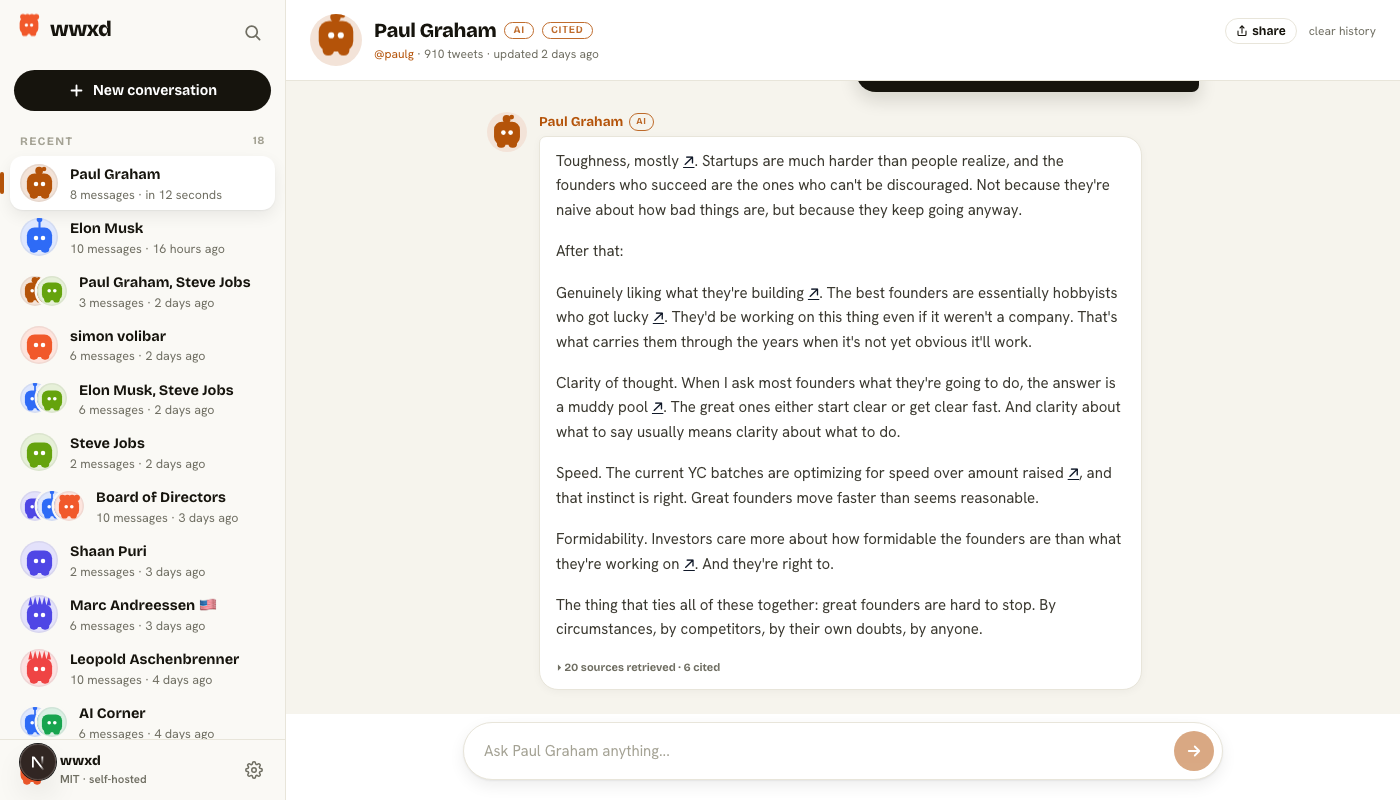
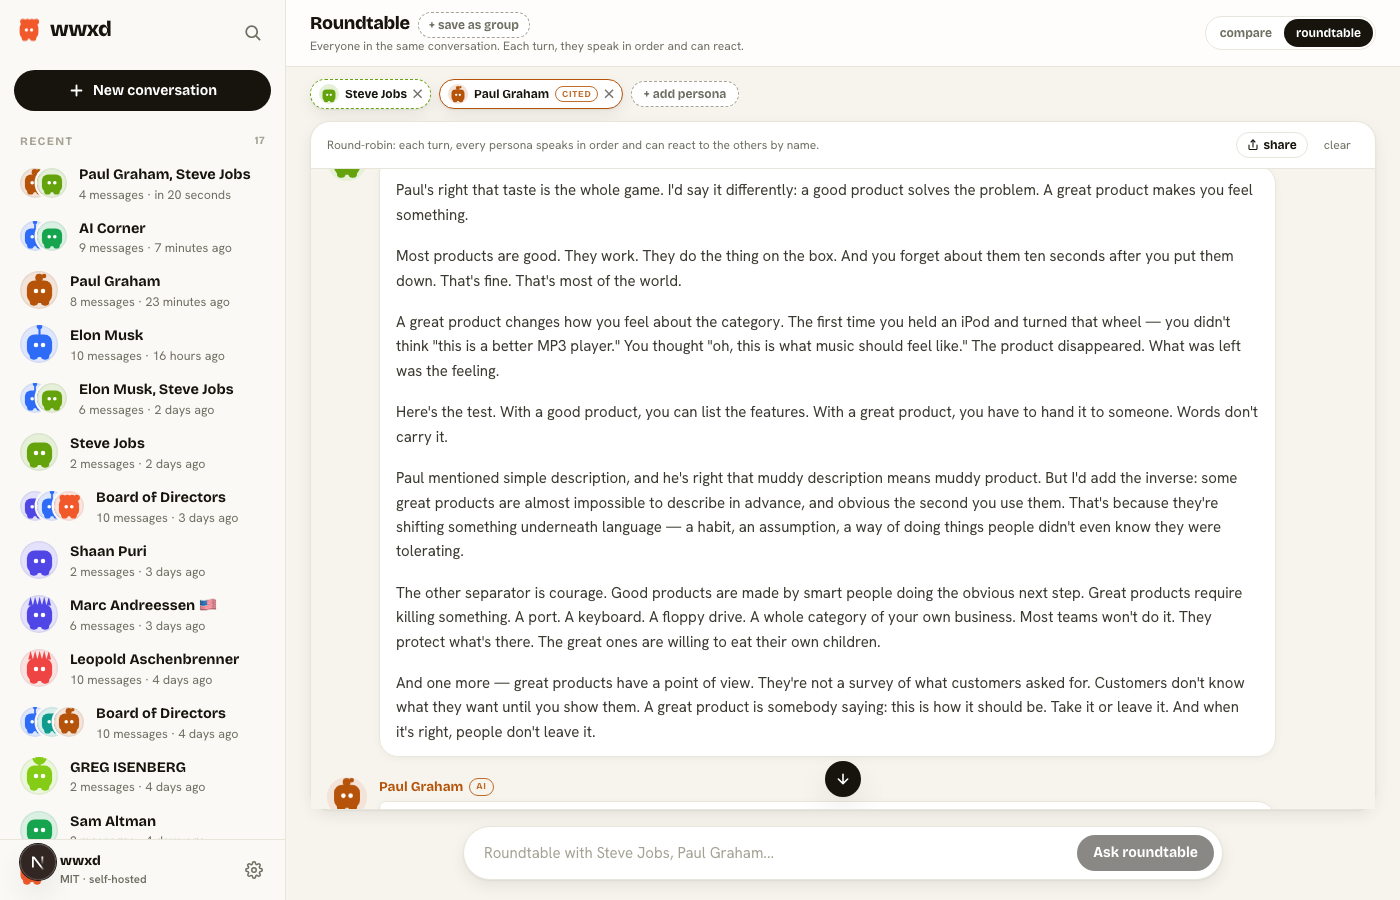
docs(readme): party-host rewrite
- Swap "Get going" and "What you get" in the nav so the action
  word leads.
- Replace the solo-chat screenshot with the mixed-mode roundtable
  (Steve Jobs prior-only + Paul Graham grounded), which shows the
  killer feature AND both modes in one image.
- Trim and warm the voice. "wwxd is provider-agnostic. Pick a
  chat model, pick an embedding model, edit .env.local." becomes
  "Edit .env.local and point wwxd at whoever you trust."
- Three commands open the page now. "Three commands and you're
  in" instead of a bare code block.
- Collapse the deep technical content into <details> blocks:
  CLI ingestion, pipeline diagram, tests + evals. Stays in one
  file but reads short on first scroll.
- Project home moves into the Contributing footer instead of a
  standalone centered orphan line.

Goal: README reads like a friend showing you in, not like a spec.
Essential up top, depth one click away.

diff --git a/README.md b/README.md
@@ -11,8 +11,8 @@
 </p>
 
 <p align="center">
-  <a href="#what-you-get">What you get</a> ·
   <a href="#get-going">Get going</a> ·
+  <a href="#what-you-get">What you get</a> ·
   <a href="#bring-your-own-model">Providers</a> ·
   <a href="#how-the-roundtable-works">Roundtable</a> ·
   <a href="#what-it-costs">Costs</a> ·
@@ -20,6 +20,8 @@
 </p>
 
 ## Get going
+
+Three commands and you're in.
 
 ```bash
 git clone https://github.com/juanfiguera/wwxd.git
@@ -30,79 +32,90 @@ pnpm dev                         # → http://localhost:3000
 ```
 
 > [!IMPORTANT]
-> **wwxd generates AI _impressions_ of real people.** The personas are not the people they reference, are not endorsed by them, and will sometimes misrepresent their views. Don't quote outputs. Don't take advice from them. Treat the whole thing as well-researched fan fiction.
+> **wwxd generates AI _impressions_ of real people.** The personas aren't the people they reference, aren't endorsed by them, and will sometimes misrepresent their views. Don't quote outputs. Don't take advice from them. Treat the whole thing as well-researched fan fiction.
 
 ## What you get
 
 Steve Jobs on AI agents. Paul Graham on hiring your first engineer. Marcus Aurelius on the email you can't stop drafting. The same machine answers all three, and it'll cite its sources when it has them.
 
 <p align="center">
-  <img src=".github/assets/chat-preview.png" alt="wwxd chat with Paul Graham — citations link back to specific tweets." width="100%" />
+  <img src=".github/assets/chat-preview.png" alt="Roundtable with Steve Jobs (no sources, dashed border) and Paul Graham (CITED, sources). Each replies to the prompt in their own voice and reacts to the other by name." width="100%" />
 </p>
 
 **Two modes for any persona:**
 
-- **Grounded** — give wwxd source material (tweets via Apify, essays from URLs/RSS/sitemap, YouTube transcripts). It builds an embedding index and every reply links back to specific chunks with `↗`. High-fidelity. You're hearing a synthesis of what they actually wrote.
-- **Prior-only** — just type a name. wwxd asks the model "who is this?", catches typos (`"Elon Mosk"` → `"Elon Musk — Tesla and SpaceX CEO"`), stores a stub, and chats from the model's training knowledge. No corpus, no citations. Fastest way to bring Steve Jobs, Marcus Aurelius, or Marie Kondo to your table.
+- **Grounded** — feed wwxd their writing (tweets via Apify, essays from URLs/RSS/sitemap, YouTube transcripts) and replies link back to specific chunks with `↗`. You're hearing a synthesis of what they actually wrote.
+- **Prior-only** — just type a name. wwxd figures out who you mean (`"Elon Mosk"` → `"Elon Musk — Tesla and SpaceX CEO"`), stores a stub, and chats from the model's training knowledge. No corpus needed. Perfect for historical figures and anyone you can't ingest.
 
-Both share the chat surface. Grounded personas wear a `CITED` pill. Prior-only personas read "from memory" instead of a tweet count.
-
-Project home: **[wwxd.chat](https://wwxd.chat)**.
+Both share the chat surface. Grounded personas wear a `CITED` pill. Prior-only personas read "from memory".
 
 ## Make your first persona
 
-After [`pnpm dev`](#get-going), open [http://localhost:3000](http://localhost:3000). You'll see an empty rail and an "Add a persona" card with two tabs.
+After `pnpm dev`, open [http://localhost:3000](http://localhost:3000). Empty rail, "Add a persona" card with two tabs:
 
-- **X handle.** Paste a handle. wwxd pulls tweets, optionally essays + YouTube, embeds the lot. About a minute for the latest 850 tweets. Needs `APIFY_TOKEN` + an embedding provider.
-- **Name anyone.** Type a name. wwxd disambiguates it and creates the persona instantly. No tokens beyond your LLM provider.
+- **X handle** — paste a handle. About a minute for the latest 850 tweets. Needs `APIFY_TOKEN` + an embedding provider.
+- **Name anyone** — type a name. Instant. No tokens beyond your LLM provider.
 
-Make a persona, click their card, ask them something. That's the whole loop.
+Make one, click their card, ask them something. That's the whole loop.
 
 ## Three ways to talk to them
 
-| Surface | URL | Vibe |
+| | URL | What it is |
 | --- | --- | --- |
-| Solo | `/<slug>` | One on one. Replies cite back to specific source chunks. |
-| Compare | `/compare?personas=a,b,c` | Same prompt, parallel columns. See how each one differs. |
-| Roundtable | `/compare?personas=a,b,c&mode=roundtable` | They take turns and react to each other by name. A gate lets a persona pass when they have nothing to add. |
+| **Solo** | `/<slug>` | One on one. |
+| **Compare** | `/compare?personas=a,b,c` | Same prompt, parallel columns. See where they differ. |
+| **Roundtable** | `/compare?personas=a,b,c&mode=roundtable` | They take turns and react to each other by name. A gate lets a persona pass when they have nothing to add. |
 
-Save a lineup as a **Group** ("Board of Directors", "The Stoa") and one-click load it from the rail. **Share** a conversation as Markdown, plain text, or a versioned `.wwxd.json` snapshot.
+Save a lineup as a **Group** ("Board of Directors", "The Stoa") and one-click it from the rail. **Share** a conversation as Markdown, plain text, or a versioned `.wwxd.json` snapshot.
 
 ## Bring your own model
 
-wwxd is provider-agnostic. Pick a chat model, pick an embedding model, edit `.env.local`. Defaults are Anthropic Claude Opus 4.7 + OpenAI `text-embedding-3-small` because they're what shipped working out of the box. None of it is hard-wired.
+Edit `.env.local` and point wwxd at whoever you trust. Anthropic, OpenAI, Ollama running locally, anything OpenAI-compatible (OpenRouter, vLLM, LMStudio).
 
 ```bash
-LLM_PROVIDER=anthropic                # anthropic | openai | openai-compatible
-                                      # aliases: ollama | openrouter | vllm | lmstudio
+LLM_PROVIDER=anthropic              # anthropic | openai | openai-compatible
 ANTHROPIC_API_KEY=sk-ant-...
 
-# Running Ollama locally? Two lines and you're done:
+# Running Ollama? Two lines:
 # LLM_PROVIDER=openai-compatible
 # LLM_BASE_URL=http://localhost:11434/v1
 # LLM_API_KEY=ollama
 
-# Embeddings — optional, but recommended for grounded mode
+# Embeddings power citations in grounded mode (optional, falls back to BM25)
 EMBEDDING_PROVIDER=openai
 OPENAI_API_KEY=sk-...
-
-# Apify is only for the grounded "X handle" path. Skip if you only
-# use prior-only personas.
-APIFY_TOKEN=apify_api_...
 ```
 
-Where to get keys:
+Full env reference: [`.env.example`](./.env.example).
 
-- [Anthropic](https://console.anthropic.com/settings/keys)
-- [OpenAI](https://platform.openai.com/api-keys)
-- [Apify](https://console.apify.com/account/integrations)
-- [Ollama](https://ollama.com) — local, free, no key
+Get keys: [Anthropic](https://console.anthropic.com/settings/keys) · [OpenAI](https://platform.openai.com/api-keys) · [Apify](https://console.apify.com/account/integrations) · [Ollama](https://ollama.com) (free, local).
 
-Full env reference in [`.env.example`](./.env.example).
+## How the roundtable works
 
-## Adding a grounded persona from the CLI
+Each turn, wwxd loops the personas in order:
 
-The UI handles this from the X-handle tab. If you want to script it instead (batch imports, deep historical pulls, X archive JSON):
+1. **Gate** — a cheap call (your `GATE_MODEL`) asks "given the conversation so far, do you actually have something to add?" YES / NO with a reason. First speaker skips this.
+2. **Speak** — if YES, retrieve their chunks (grounded) or go from memory (prior-only) and stream. The prompt includes every prior speaker so they can agree, push back, or build on each other by name.
+3. **Pass** — if NO, surface a `(passed)` chip with the reason. No charge for a quiet turn.
+
+Code: `lib/gate.ts` and `app/api/roundtable/route.ts`.
+
+## What it costs
+
+Depends on which providers you pick. Ballpark:
+
+- **Tweet ingestion (Apify)** — $0.25 to $0.40 per 1k tweets. Latest pull is a few dollars; deep pulls of a 10-year account are $10 to $30. Skip if you only use prior-only personas.
+- **Embeddings** — about $0.02 per 1M tokens on OpenAI's small embedding model. A 5k-tweet corpus is around $0.01. Free if you run them locally.
+- **Chat (hosted)** — the persona prompt is cached, so each turn mostly pays for retrieval + response. Cents per turn on a frontier model, fractions of a cent on a mid-tier one. A 4-persona roundtable turn is roughly 4× a solo turn.
+- **Chat (local)** — Ollama, vLLM, LMStudio: free. Quality scales with the model you run.
+- **Prior-only personas** — zero ingestion cost. Pay only per turn.
+
+## Going deeper
+
+<details>
+<summary><strong>Add a persona from the CLI</strong></summary>
+
+For batch imports or X archive JSONs:
 
 ```bash
 # Tweets — latest ~850 in X's search window
@@ -125,16 +138,10 @@ pnpm embed-tweets paulg
 ```
 
 `--file` on `fetch-tweets` accepts an X archive JSON if you want to skip Apify entirely.
+</details>
 
-## Tests + evals
-
-```bash
-pnpm test                       # 473 unit tests
-pnpm eval-persona paulg         # voice match score via LLM judge
-pnpm eval-discriminate paulg    # blind A/B: can a judge tell wwxd apart from the real thing?
-```
-
-## What's actually happening
+<details>
+<summary><strong>What's actually happening inside</strong></summary>
 
 ```
 scripts/fetch-tweets.ts     →  data/<slug>.json                  corpus
@@ -159,45 +166,38 @@ app/api/chat/[username]/route.ts:
   Load corpus, branch on mode. Grounded retrieves and injects sources
   with [src:ID] markers. Prior-only just emits the prompt and streams.
 ```
+</details>
 
-## How the roundtable works
+<details>
+<summary><strong>Tests + evals</strong></summary>
 
-For each turn, wwxd loops the personas in order:
-
-1. **Gate.** A cheap call (whichever model you set as `GATE_MODEL`, defaults to your provider's small/fast tier) asks "given the conversation so far, do you actually have anything to add?" YES / NO with a reason. First speaker skips the gate.
-2. **Speak.** If YES, retrieve their chunks (grounded) or go from memory (prior-only). The prompt includes every prior speaker's contribution so they can agree, push back, or build by name.
-3. **Pass.** If NO, surface a `(passed)` chip with the reason. No charge for a turn nobody spoke on.
-
-See `lib/gate.ts` and `app/api/roundtable/route.ts`.
-
-## What it costs
-
-Costs depend on the providers you pick. Rough ballpark:
-
-- **Tweet ingestion** (Apify) — $0.25 to $0.40 per 1k tweets. A latest pull is a few dollars. A `--deep` pull of a 10-year account is $10 to $30. Skip entirely if you only use prior-only personas.
-- **Embeddings** — typically $0.02 per 1M tokens with OpenAI's small embedding model. A 5k-tweet corpus is about $0.01 to embed. Free if you run embeddings locally (Ollama, vLLM, etc.).
-- **Chat (hosted providers)** — the static persona prompt is cached when the provider supports it (Anthropic and OpenAI both do), so each turn mostly pays for retrieval + response. On a frontier-tier model, expect cents per turn; on a mid-tier model, fractions of a cent. A 4-persona roundtable turn is roughly 4× a solo turn.
-- **Chat (local)** — Ollama, vLLM, LMStudio, or any openai-compatible backend you stand up yourself: free, minus electricity. Quality scales with the model you run.
-- **Prior-only personas** — zero ingestion cost in any setup. You only pay (or only burn local compute) per chat turn.
+```bash
+pnpm test                       # 473 unit tests
+pnpm eval-persona paulg         # voice match score via LLM judge
+pnpm eval-discriminate paulg    # blind A/B: can a judge tell wwxd from real?
+```
+</details>
 
 ## Caveats worth reading
 
-- It's a simulation. The disclaimer at the top of this file isn't decoration. Please keep it visible if you ship a fork.
+- It's a simulation. The disclaimer up top isn't decoration. Keep it visible if you fork.
 - No tools, no web access. The chat only knows what's in the corpus (grounded) or what the model knows (prior-only).
-- Grounded without embeddings = BM25-only, no `↗` links. Set up an embedding provider if you want citations.
-- Prior-only never cites. Specific quotes, dates, and numbers may be fabricated. Treat replies as informed extrapolation, not as records.
-- Everything is local. `data/wwxd.db` (SQLite) holds conversations. `data/<slug>.{json,embeddings.json}` hold corpora. Nothing leaves your machine unless you share a snapshot.
+- No embeddings = BM25-only, no `↗` links. Set up an embedding provider if you want citations.
+- Prior-only personas never cite. Specific quotes, dates, and numbers may be fabricated. Treat replies as informed extrapolation.
+- Everything is local. `data/wwxd.db` holds conversations. `data/<slug>.{json,embeddings.json}` hold corpora. Nothing leaves your machine unless you share a snapshot.
 
 ## Contributing
 
-PRs welcome. Surface is small:
+PRs welcome. Small surface:
 
 - **Ingestion** — `lib/ingest/`, `scripts/`
 - **Retrieval** — `lib/retrieve.ts`, `lib/bm25.ts`
 - **Persona prompts** — `lib/persona.ts`, `lib/disambiguate.ts`
 - **Chat UI** — `app/`
 
-Run `pnpm test` before opening a PR. Tests live under `lib/__tests__/` and `app/components/__tests__/`.
+Run `pnpm test` before opening a PR. Tests live in `lib/__tests__/` and `app/components/__tests__/`.
+
+Project home: **[wwxd.chat](https://wwxd.chat)**.
 
 ## License
 
